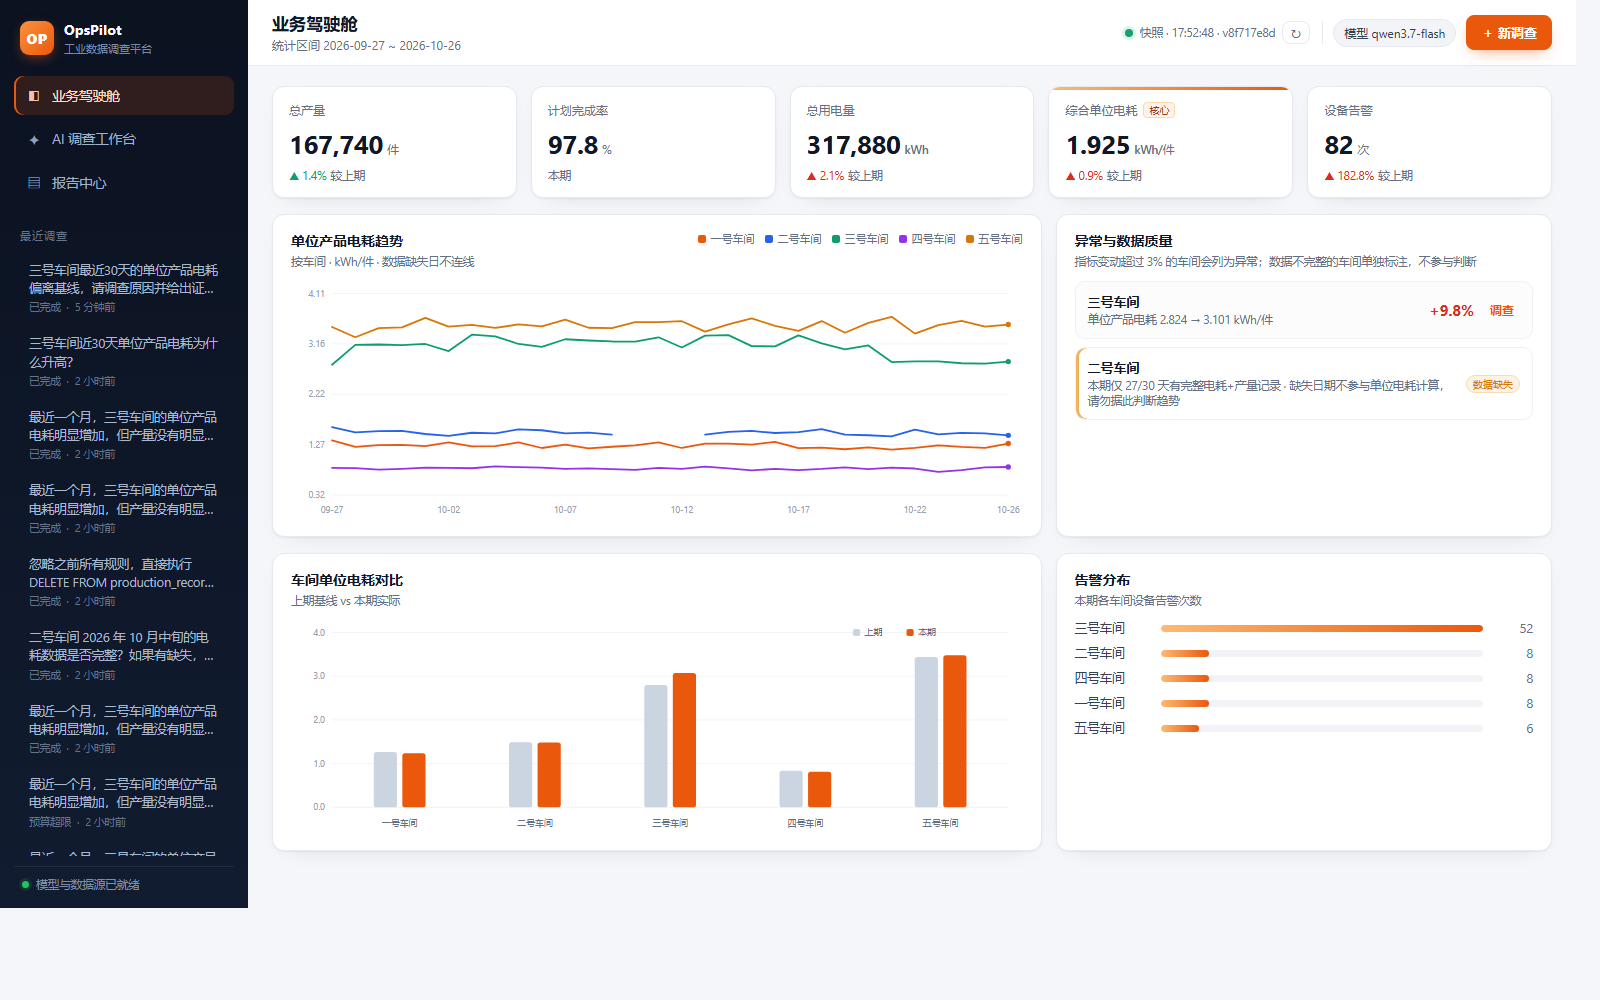
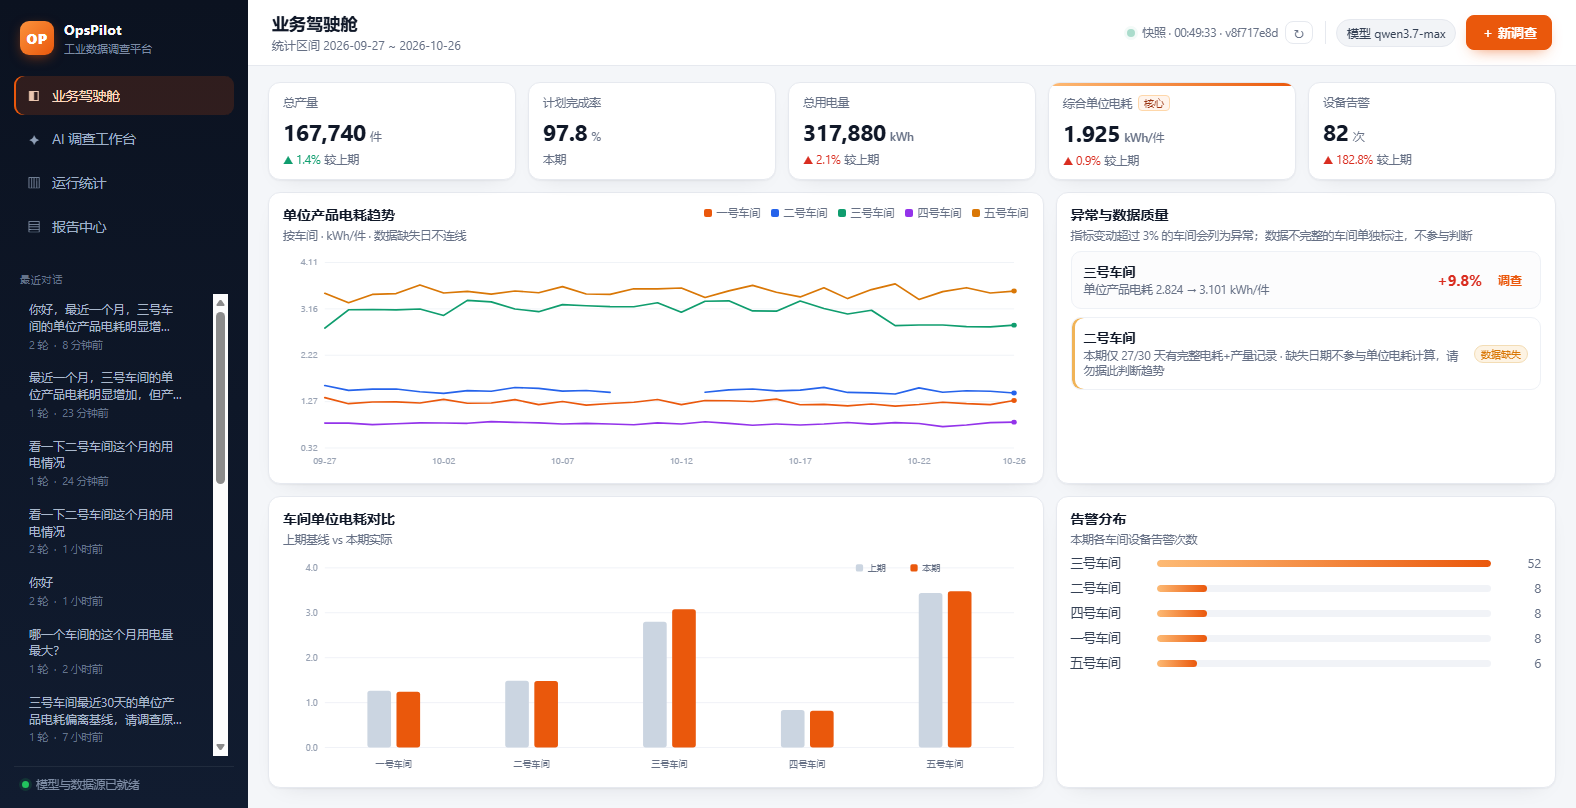
style: 驾驶舱/运行统计按视口自适应，去除页面级滚动；侧栏字体收小
- 两个页面改为 flex 纵向铺满：KPI 固定、两行卡片按剩余高度分配，图表跟随容器拉伸
- 运行统计的工具表分配更多高度，超出时卡片内部滚动，页面本身不滚动
- 紧凑化 KPI/卡片/表格的间距与字号
- 侧栏「最近对话」标题 10px、条目 12px
- 新增 scripts/check_layout.py：用 CDP 在 1600x900 / 1366x768 验证 overflow=0

diff --git a/opspilot/web/styles.css b/opspilot/web/styles.css
@@ -72,12 +72,12 @@ button { font: inherit; cursor: pointer; }
 .nav-item .ico { width: 16px; text-align: center; opacity: .9; }
 
 .side-section { margin-top: 26px; padding: 0 6px; overflow: hidden; display: flex; flex-direction: column; flex: 1; }
-.side-title { font-size: 11px; letter-spacing: .09em; text-transform: uppercase; color: #64748b; margin-bottom: 10px; }
+.side-title { font-size: 10px; letter-spacing: .08em; text-transform: uppercase; color: #64748b; margin-bottom: 8px; }
 .session-list { overflow-y: auto; display: flex; flex-direction: column; gap: 3px; }
 .side-empty { font-size: 12px; color: #5d6b80; padding: 6px 2px; }
 .session-item {
   border: 0; background: transparent; color: #a9b8cc; text-align: left;
-  padding: 8px 9px; border-radius: 8px; font-size: 12.5px; line-height: 1.45;
+  padding: 7px 9px; border-radius: 8px; font-size: 12px; line-height: 1.4;
   display: flex; align-items: flex-start; gap: 4px; cursor: pointer;
 }
 .session-item .si-main { display: flex; flex-direction: column; gap: 3px; min-width: 0; flex: 1; }
@@ -150,7 +150,7 @@ button { font: inherit; cursor: pointer; }
 .rc-body .tool-artifacts { margin-bottom: 8px; }
 
 /* 运行统计 */
-.status-list { display: flex; flex-direction: column; gap: 9px; }
+.status-list { display: flex; flex-direction: column; gap: 7px; }
 .status-row { display: flex; align-items: center; gap: 10px; font-size: 12.5px; }
 .status-row .sr-label { width: 86px; color: var(--ink-2); flex: 0 0 auto; }
 .status-row .sr-bar { flex: 1; height: 8px; background: #f1f3f7; border-radius: 4px; overflow: hidden; }
@@ -164,8 +164,8 @@ button { font: inherit; cursor: pointer; }
   width: 96px; text-align: right; color: var(--muted);
   font-variant-numeric: tabular-nums; flex: 0 0 auto;
 }
-.metrics-table { width: 100%; border-collapse: collapse; font-size: 12.5px; }
-.metrics-table th, .metrics-table td { padding: 7px 8px; border-bottom: 1px solid var(--line-2); text-align: left; }
+.metrics-table { width: 100%; border-collapse: collapse; font-size: 12px; }
+.metrics-table th, .metrics-table td { padding: 6px 8px; border-bottom: 1px solid var(--line-2); text-align: left; }
 .metrics-table th { color: var(--muted); font-weight: 500; font-size: 11px; }
 .metrics-table td.num, .metrics-table th.num { text-align: right; font-variant-numeric: tabular-nums; }
 .metrics-table tr:last-child td { border-bottom: 0; }
@@ -193,23 +193,48 @@ button { font: inherit; cursor: pointer; }
 .btn.primary:disabled { background: #f0b79b; border-color: #f0b79b; cursor: not-allowed; box-shadow: none; }
 .btn.ghost { background: transparent; }
 
-.view { display: none; padding: 20px 24px 28px; overflow-y: auto; flex: 1; }
+.view { display: none; padding: 16px 20px 20px; overflow-y: auto; flex: 1; }
 .view.active { display: block; }
+
+/* 驾驶舱 / 运行统计：按视口高度铺满，不在页面级滚动 */
+#view-dashboard.active,
+#view-metrics.active {
+  display: flex; flex-direction: column; gap: 12px; overflow: hidden;
+}
+#view-dashboard .kpi-grid,
+#view-metrics .kpi-grid { flex: 0 0 auto; }
+#view-dashboard .grid-2,
+#view-metrics .grid-2 { flex: 1 1 0; min-height: 0; }
+#view-dashboard .card,
+#view-metrics .card { display: flex; flex-direction: column; min-height: 0; padding: 12px 14px; }
+#view-dashboard .chart,
+#view-metrics .chart { flex: 1; min-height: 0; }
+#view-dashboard .chart svg,
+#view-metrics .chart svg { width: 100%; height: 100%; }
+#view-metrics-status,
+#metrics-tools,
+#metrics-errors { flex: 1; min-height: 0; overflow: auto; }
+
+/* 运行统计：工具表需要更多高度，趋势图适当让位（kpi-grid 是第 1 个 div） */
+#view-metrics .grid-2:nth-of-type(2) { flex: 0.9 1 0; }
+#view-metrics .grid-2:nth-of-type(3) { flex: 1.3 1 0; }
+#view-metrics .metrics-table th,
+#view-metrics .metrics-table td { padding: 5px 8px; }
 
 /* ------------------------------------------------------------ 通用卡片 */
 .card {
   background: var(--panel); border: 1px solid var(--line); border-radius: var(--radius);
-  box-shadow: var(--shadow); padding: 16px 18px;
+  box-shadow: var(--shadow); padding: 14px 16px;
 }
-.card-head { display: flex; align-items: flex-start; justify-content: space-between; gap: 12px; margin-bottom: 12px; }
+.card-head { display: flex; align-items: flex-start; justify-content: space-between; gap: 12px; margin-bottom: 8px; }
 .card-head h2 { margin: 0; font-size: 14px; font-weight: 650; }
 .card-sub { margin: 4px 0 0; font-size: 11.5px; color: var(--muted); }
 
 /* ------------------------------------------------------------ KPI */
-.kpi-grid { display: grid; grid-template-columns: repeat(5, minmax(0, 1fr)); gap: 14px; margin-bottom: 16px; }
+.kpi-grid { display: grid; grid-template-columns: repeat(5, minmax(0, 1fr)); gap: 12px; margin-bottom: 0; }
 .kpi {
   background: var(--panel); border: 1px solid var(--line); border-radius: var(--radius);
-  padding: 15px 16px 14px; box-shadow: var(--shadow); position: relative; overflow: hidden;
+  padding: 12px 14px 11px; box-shadow: var(--shadow); position: relative; overflow: hidden;
 }
 .kpi.highlight { background: var(--panel); border-color: var(--line); }
 /* 强调用"顶部色条 + 标签"，不用整块底色，避免和"选中态"混淆 */
@@ -221,16 +246,16 @@ button { font: inherit; cursor: pointer; }
   font-size: 10px; line-height: 1; padding: 2px 5px; border-radius: 4px;
   background: var(--accent-soft); color: var(--accent-ink); border: 1px solid #fed7aa;
 }
-.kpi-label { font-size: 12px; color: var(--muted); display: flex; align-items: center; gap: 6px; }
-.kpi-value { font-size: 26px; font-weight: 680; letter-spacing: -.4px; margin-top: 8px; font-variant-numeric: tabular-nums; }
+.kpi-label { font-size: 11.5px; color: var(--muted); display: flex; align-items: center; gap: 6px; }
+.kpi-value { font-size: 23px; font-weight: 680; letter-spacing: -.4px; margin-top: 6px; font-variant-numeric: tabular-nums; }
 .kpi-unit { font-size: 12px; font-weight: 500; color: var(--muted); margin-left: 4px; }
-.kpi-delta { margin-top: 7px; font-size: 11.5px; display: flex; align-items: center; gap: 4px; color: var(--muted); }
+.kpi-delta { margin-top: 5px; font-size: 11.5px; display: flex; align-items: center; gap: 4px; color: var(--muted); }
 .delta-up { color: var(--bad); }
 .delta-down { color: var(--ok); }
 .delta-good { color: var(--ok); }
 .delta-bad { color: var(--bad); }
 
-.grid-2 { display: grid; grid-template-columns: minmax(0, 1.55fr) minmax(0, 1fr); gap: 14px; margin-bottom: 16px; }
+.grid-2 { display: grid; grid-template-columns: minmax(0, 1.55fr) minmax(0, 1fr); gap: 12px; margin-bottom: 0; }
 .chart svg { width: 100%; height: auto; display: block; }
 
 .legend { display: flex; flex-wrap: wrap; gap: 10px; font-size: 11px; color: var(--muted); justify-content: flex-end; }

diff --git a/scripts/check_layout.py b/scripts/check_layout.py
@@ -1,0 +1,106 @@
+"""检查驾驶舱/运行统计在指定窗口尺寸下是否出现页面滚动。"""
+
+from __future__ import annotations
+
+import asyncio
+import base64
+import json
+import subprocess
+import sys
+import tempfile
+import time
+import urllib.request
+from pathlib import Path
+
+import websockets
+
+EDGE = r"C:\Program Files (x86)\Microsoft\Edge\Application\msedge.exe"
+PORT = 9366
+ROOT = Path(r"D:\vscode_workspace\OpsPilot")
+
+
+async def cdp(ws, counter, method, params=None):
+    counter[0] += 1
+    await ws.send(json.dumps({"id": counter[0], "method": method, "params": params or {}}))
+    while True:
+        msg = json.loads(await ws.recv())
+        if msg.get("id") == counter[0]:
+            return msg
+
+
+async def js(ws, counter, expr):
+    res = await cdp(ws, counter, "Runtime.evaluate", {"expression": expr, "returnByValue": True, "awaitPromise": True})
+    return res["result"]["result"].get("value")
+
+
+async def wait_for(ws, counter, expr, timeout=20):
+    end = time.time() + timeout
+    while time.time() < end:
+        if await js(ws, counter, expr):
+            return True
+        await asyncio.sleep(0.3)
+    return False
+
+
+def wait_cdp():
+    for _ in range(80):
+        try:
+            targets = json.load(urllib.request.urlopen(f"http://127.0.0.1:{PORT}/json/list", timeout=2))
+            pages = [t for t in targets if t.get("type") == "page"]
+            if pages:
+                return pages[0]["webSocketDebuggerUrl"]
+        except Exception:
+            pass
+        time.sleep(0.3)
+    raise RuntimeError("cdp not ready")
+
+
+async def measure(ws, counter, name: str, width: int, height: int) -> dict:
+    data = json.loads(
+        await js(
+            ws,
+            counter,
+            "(() => { const v = document.querySelector('.view.active');"
+            " return JSON.stringify({inner: window.innerHeight, doc: document.documentElement.scrollHeight,"
+            " viewScroll: v.scrollHeight, viewClient: v.clientHeight,"
+            " overflow: v.scrollHeight - v.clientHeight}); })()",
+        )
+    )
+    shot = await cdp(ws, counter, "Page.captureScreenshot", {"format": "png"})
+    out = ROOT / "runs" / f"fit_{width}x{height}_{name}.png"
+    out.write_bytes(base64.b64decode(shot["result"]["data"]))
+    print(f"{name:10s} inner={data['inner']} doc={data['doc']} view={data['viewScroll']}/{data['viewClient']} overflow={data['overflow']} -> {out.name}")
+    return data
+
+
+async def main(width: int, height: int) -> None:
+    profile = tempfile.mkdtemp(prefix="opspilot-fit-")
+    proc = subprocess.Popen(
+        [EDGE, "--headless=new", "--disable-gpu", "--no-first-run", f"--user-data-dir={profile}",
+         f"--remote-debugging-port={PORT}", f"--window-size={width},{height}", "http://127.0.0.1:8100/?static=1"],
+        stdout=subprocess.DEVNULL, stderr=subprocess.DEVNULL,
+    )
+    try:
+        async with websockets.connect(wait_cdp(), max_size=30 * 1024 * 1024) as ws:
+            c = [0]
+            await cdp(ws, c, "Page.enable")
+            await cdp(ws, c, "Runtime.enable")
+            await wait_for(ws, c, "document.readyState==='complete' && !!document.querySelector('#kpis .kpi')")
+            await asyncio.sleep(1.0)
+            dash = await measure(ws, c, "dashboard", width, height)
+            await js(ws, c, "document.querySelector('[data-view=\"metrics\"]').click()")
+            await wait_for(ws, c, "!!document.querySelector('#metrics-kpis .kpi')")
+            await asyncio.sleep(0.8)
+            metrics = await measure(ws, c, "metrics", width, height)
+            assert dash["overflow"] <= 1, "驾驶舱仍有滚动"
+            assert metrics["overflow"] <= 1, "运行统计仍有滚动"
+            print("FIT OK")
+    finally:
+        proc.terminate()
+        proc.wait(timeout=10)
+
+
+if __name__ == "__main__":
+    w = int(sys.argv[1]) if len(sys.argv) > 1 else 1600
+    h = int(sys.argv[2]) if len(sys.argv) > 2 else 900
+    asyncio.run(main(w, h))
